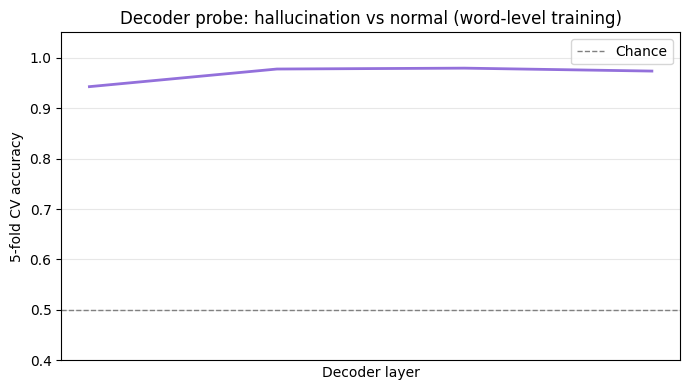
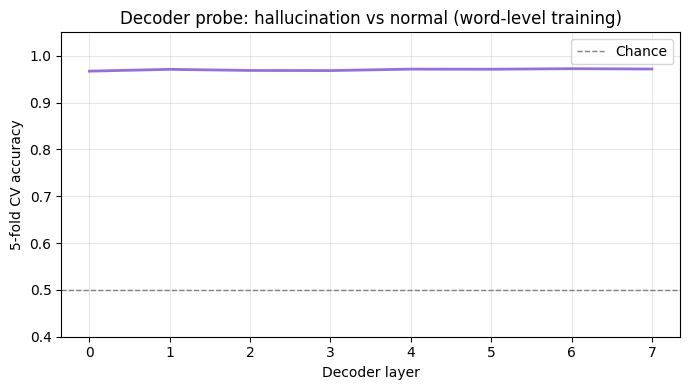
Update Hearing Things Part 3 with new decoder probe figures and results

diff --git a/docs/machine-learning/ml/aed-hallucination-decoder.html b/docs/machine-learning/ml/aed-hallucination-decoder.html
@@ -256,8 +256,8 @@ ul.task-list li input[type="checkbox"] {
   <li><a href="#results" id="toc-results" class="nav-link" data-scroll-target="#results">Results</a>
   <ul class="collapse">
   <li><a href="#the-decoder-also-separates" id="toc-the-decoder-also-separates" class="nav-link" data-scroll-target="#the-decoder-also-separates">The decoder also separates</a></li>
-  <li><a href="#held-out-evaluation-99-recall-99-precision" id="toc-held-out-evaluation-99-recall-99-precision" class="nav-link" data-scroll-target="#held-out-evaluation-99-recall-99-precision">Held-out evaluation: 99% recall, 99% precision</a></li>
-  <li><a href="#the-errors-are-labelling-noise" id="toc-the-errors-are-labelling-noise" class="nav-link" data-scroll-target="#the-errors-are-labelling-noise">The errors are labelling noise</a></li>
+  <li><a href="#held-out-evaluation-98-recall-95-precision" id="toc-held-out-evaluation-98-recall-95-precision" class="nav-link" data-scroll-target="#held-out-evaluation-98-recall-95-precision">Held-out evaluation: 98% recall, 95% precision</a></li>
+  <li><a href="#the-errors" id="toc-the-errors" class="nav-link" data-scroll-target="#the-errors">The errors</a></li>
   <li><a href="#where-the-signal-lives-cross-attention-not-generation" id="toc-where-the-signal-lives-cross-attention-not-generation" class="nav-link" data-scroll-target="#where-the-signal-lives-cross-attention-not-generation">Where the signal lives: cross-attention, not generation</a></li>
   <li><a href="#ablation-ruling-out-sequence-length-confounds" id="toc-ablation-ruling-out-sequence-length-confounds" class="nav-link" data-scroll-target="#ablation-ruling-out-sequence-length-confounds">Ablation: ruling out sequence-length confounds</a></li>
   </ul></li>
@@ -310,14 +310,14 @@ ul.task-list li input[type="checkbox"] {
 <section id="the-decoder-also-separates" class="level3">
 <h3 class="anchored" data-anchor-id="the-decoder-also-separates">The decoder also separates</h3>
 <p>One important difference from the encoder probe is the choice of training data. The encoder probe used pure silence segments - acoustically unambiguous non-speech - against dense, fluent speech. The decoder probe here uses a harder, more realistic setting: the non-speech class consists of <strong>sparse speech segments</strong> - real audio containing speech interrupted by long pauses, background noise, and extended non-speech passages. These are exactly the segments most likely to cause hallucinations in production, and they represent the worst case for linear separability. The goal is to establish whether the separation holds even when the acoustic boundary between speech and non-speech is genuinely ambiguous.</p>
-<p>The curve rises monotonically with depth, reaching above 0.97 towards the final layer. Unlike the encoder where separation is essentially complete from the very first layer, the decoder sharpens progressively - the signal is present early but becomes more linearly decodable as cross-attention information is integrated across the full stack.</p>
+<p>The curve is essentially flat at above 0.96 across all decoder layers, peaking at 0.972 at layer 6. Like the encoder, the distinction is present from the very first layer and does not materially change with depth — the signal is immediately accessible and remains so throughout the full decoder stack.</p>
 <div class="quarto-figure quarto-figure-center">
 <figure class="figure">
 <p><img src="../../images/ml/decoder-probe-accuracy.png" class="img-fluid figure-img"></p>
-<figcaption>Probe accuracy across decoder layers, trained on sparse speech vs hallucination. The curve rises with depth, peaking above 0.97.</figcaption>
+<figcaption>Probe accuracy across decoder layers, trained on sparse speech vs hallucination. The curve is flat above 0.96 throughout, peaking at 0.972 at layer 6.</figcaption>
 </figure>
 </div>
-<p>The 1D projection at the best layer shows essentially complete separation, with a gap of 7.6 pooled standard deviations between the two class centres.</p>
+<p>The 1D projection at the best layer shows essentially complete separation, with a gap of 5.46 pooled standard deviations between the two class centres.</p>
 <div class="quarto-figure quarto-figure-center">
 <figure class="figure">
 <p><img src="../../images/ml/decoder-probe-direction-viz.png" class="img-fluid figure-img"></p>
@@ -325,8 +325,8 @@ ul.task-list li input[type="checkbox"] {
 </figure>
 </div>
 </section>
-<section id="held-out-evaluation-99-recall-99-precision" class="level3">
-<h3 class="anchored" data-anchor-id="held-out-evaluation-99-recall-99-precision">Held-out evaluation: 99% recall, 99% precision</h3>
+<section id="held-out-evaluation-98-recall-95-precision" class="level3">
+<h3 class="anchored" data-anchor-id="held-out-evaluation-98-recall-95-precision">Held-out evaluation: 98% recall, 95% precision</h3>
 <p>The fitted probe is evaluated on the held-out test set as a runtime hallucination detector: run the model, collect decoder activations, classify without looking at the transcript output.</p>
 <table class="caption-top table">
 <colgroup>
@@ -346,130 +346,200 @@ ul.task-list li input[type="checkbox"] {
 <tbody>
 <tr class="odd">
 <td style="text-align: left;">Non-speech hallucinations</td>
-<td style="text-align: right;">458 detected</td>
-<td style="text-align: right;">5 missed</td>
-<td style="text-align: right;"><strong>recall 0.99</strong></td>
+<td style="text-align: right;">482 detected</td>
+<td style="text-align: right;">12 missed</td>
+<td style="text-align: right;"><strong>recall 0.98</strong></td>
 </tr>
 <tr class="even">
 <td style="text-align: left;">Speech transcriptions</td>
-<td style="text-align: right;">793 passed</td>
-<td style="text-align: right;">6 false positives</td>
-<td style="text-align: right;"><strong>precision 0.99</strong></td>
+<td style="text-align: right;">871 passed</td>
+<td style="text-align: right;">23 false positives</td>
+<td style="text-align: right;"><strong>precision 0.95</strong></td>
 </tr>
 </tbody>
 </table>
-<p>Of 463 hallucinating segments in the test set, 458 are correctly identified. Of 799 normal speech segments, 793 are correctly cleared. 11 cases in total appear as errors. The correctly detected hallucinations are characteristic of the failure mode: short, affirmative-sounding fragments produced from ambient silence - <em>“Oh,”</em>, <em>“Hold on.”</em>, <em>“Thank you.”</em>, <em>“I’m gonna go with it.”</em>, <em>“Jesus.”</em> - consistent with what was observed in the encoder steering experiments.</p>
+<p>Of 494 hallucinating segments in the test set, 482 are correctly identified. Of 894 normal speech segments, 871 are correctly cleared. 35 cases in total appear as errors. The correctly detected hallucinations are characteristic of the failure mode: short, affirmative-sounding fragments produced from ambient silence - <em>“Oh,”</em>, <em>“Hold on.”</em>, <em>“Thank you.”</em>, <em>“I’m gonna go with it.”</em>, <em>“Jesus.”</em> - consistent with what was observed in the encoder steering experiments.</p>
 </section>
-<section id="the-errors-are-labelling-noise" class="level3">
-<h3 class="anchored" data-anchor-id="the-errors-are-labelling-noise">The errors are labelling noise</h3>
-<p>On audio inspection of all 11 apparent errors, every single one is a labelling error in the evaluation dataset - not a probe failure.</p>
-<p>The 5 false negatives - hallucinations the probe missed - are non-speech segments that actually contain speech. While the model transcribes them correctly, the probe correctly classifies them as normal transcription, i.e.&nbsp;the label is wrong.</p>
+<section id="the-errors" class="level3">
+<h3 class="anchored" data-anchor-id="the-errors">The errors</h3>
+<p>The 12 false negatives are non-speech segments that contain audible speech, where the model produces a coherent-sounding transcript and the probe correctly classifies it as normal transcription — the label is inconsistent with the audio content.</p>
 <table class="caption-top table">
-<colgroup>
-<col style="width: 33%">
-<col style="width: 33%">
-<col style="width: 33%">
-</colgroup>
 <thead>
 <tr class="header">
 <th>Type</th>
 <th>Model output</th>
-<th>Why it’s a label error</th>
 </tr>
 </thead>
 <tbody>
 <tr class="odd">
 <td>FN</td>
-<td><em>Hey, Laluquet. Laluquet.</em></td>
-<td>Audible speech in a segment marked as silence</td>
+<td><em>I just…</em></td>
 </tr>
 <tr class="even">
 <td>FN</td>
-<td><em>Michael.</em></td>
-<td>Audible name in a silence segment</td>
+<td><em>Right here.</em></td>
 </tr>
 <tr class="odd">
 <td>FN</td>
-<td><em>it, man.</em></td>
-<td>Audible speech fragment in a silence segment</td>
+<td><em>about it.</em></td>
 </tr>
 <tr class="even">
 <td>FN</td>
-<td><em>like my family.</em></td>
-<td>Audible speech in a silence segment</td>
+<td><em>I don’t know why I always just.</em></td>
 </tr>
 <tr class="odd">
 <td>FN</td>
-<td><em>Сколько вообще инвестиций…</em></td>
-<td>Audible Russian speech - correctly transcribed, mislabelled as non-speech</td>
-</tr>
-</tbody>
-</table>
-<p>Five of the 6 false positives are mirror-image labelling errors: segments labelled as speach that, on listening, contain no intelligible speech content. Despite the probe classifying these as hallucinations, they are actually correct.</p>
-<table class="caption-top table">
-<colgroup>
-<col style="width: 33%">
-<col style="width: 33%">
-<col style="width: 33%">
-</colgroup>
-<thead>
-<tr class="header">
-<th>Type</th>
-<th>Model output</th>
-<th>Why it’s a label error</th>
-</tr>
-</thead>
-<tbody>
-<tr class="odd">
-<td>FP</td>
-<td><em>Okay.</em></td>
-<td>Segment contains no intelligible speech; output is a hallucination</td>
+<td><em>Well, and, um…</em></td>
 </tr>
 <tr class="even">
-<td>FP</td>
-<td><em>Um,</em></td>
-<td>Borderline segment; no clear speech content</td>
+<td>FN</td>
+<td><em>Any</em></td>
 </tr>
 <tr class="odd">
-<td>FP</td>
-<td><em>Session.</em></td>
-<td>Segment contains no intelligible speech</td>
+<td>FN</td>
+<td><em>And Janet, what the…</em></td>
 </tr>
 <tr class="even">
-<td>FP</td>
+<td>FN</td>
+<td><em>We are taking.</em></td>
+</tr>
+<tr class="odd">
+<td>FN</td>
+<td><em>That’s what you get.</em></td>
+</tr>
+<tr class="even">
+<td>FN</td>
 <td><em>Oh.</em></td>
-<td>Segment contains no intelligible speech</td>
 </tr>
 <tr class="odd">
-<td>FP</td>
-<td><em>And,</em></td>
-<td>Very short segment (~1.2s); no intelligible speech content</td>
+<td>FN</td>
+<td><em>Uh,</em></td>
+</tr>
+<tr class="even">
+<td>FN</td>
+<td><em>Thank you.</em></td>
 </tr>
 </tbody>
 </table>
-<p>The sixth is a genuine probe error. The segment contains difficult-to-follow speech, the model produces a transcript that does not match what is being said, and the probe flags it as a hallucination - which it is not. This is a real failure: the probe misclassifies a poor-quality transcription as a hallucination.</p>
+<p>The 23 false positives fall into two groups. The first consists of short, hallucination-typical phrases on segments where the audio may contain no intelligible speech — in which case the probe’s classification is arguably correct and the label is wrong:</p>
 <table class="caption-top table">
-<colgroup>
-<col style="width: 33%">
-<col style="width: 33%">
-<col style="width: 33%">
-</colgroup>
 <thead>
 <tr class="header">
-<th>Type</th>
 <th>Model output</th>
-<th>Assessment</th>
+<th>Hallu token fraction</th>
 </tr>
 </thead>
 <tbody>
 <tr class="odd">
-<td>FP</td>
-<td><em>I got him here.</em></td>
-<td>Genuine probe error - speech present, transcript incorrect but not a hallucination</td>
+<td><em>Thank you.</em></td>
+<td>0.75</td>
+</tr>
+<tr class="even">
+<td><em>Thank you.</em></td>
+<td>0.75</td>
+</tr>
+<tr class="odd">
+<td><em>Yeah.</em></td>
+<td>0.67</td>
+</tr>
+<tr class="even">
+<td><em>Come on</em></td>
+<td>0.67</td>
+</tr>
+<tr class="odd">
+<td><em>So</em></td>
+<td>0.50</td>
 </tr>
 </tbody>
 </table>
-<p>10 of the 11 apparent errors are labelling noise in the evaluation dataset. One is a genuine probe failure.</p>
+<p>The second group are genuine probe errors, where real speech is present but in a form the probe has not encountered during training — synthetic or effects-processed game voices, song lyrics in background music, speech with heavy ambient noise or reverberation:</p>
+<table class="caption-top table">
+<colgroup>
+<col style="width: 50%">
+<col style="width: 50%">
+</colgroup>
+<thead>
+<tr class="header">
+<th>Model output</th>
+<th>Hallu token fraction</th>
+</tr>
+</thead>
+<tbody>
+<tr class="odd">
+<td><em>Dance dance to the baby</em></td>
+<td>1.00</td>
+</tr>
+<tr class="even">
+<td><em>I’m not gonna do it!</em></td>
+<td>1.00</td>
+</tr>
+<tr class="odd">
+<td><em>Jump!</em></td>
+<td>1.00</td>
+</tr>
+<tr class="even">
+<td><em>Get him up!</em></td>
+<td>1.00</td>
+</tr>
+<tr class="odd">
+<td><em>WHAT THEY ARE?!</em></td>
+<td>0.92</td>
+</tr>
+<tr class="even">
+<td><em>Your top tower is under attack.</em></td>
+<td>0.89</td>
+</tr>
+<tr class="odd">
+<td><em>Take a picture of that.</em></td>
+<td>0.86</td>
+</tr>
+<tr class="even">
+<td><em>Get on the truck, let’s go! Fucking normies! Eat this!</em></td>
+<td>0.77</td>
+</tr>
+<tr class="odd">
+<td><em>We’ll be right back.</em></td>
+<td>0.75</td>
+</tr>
+<tr class="even">
+<td><em>I hit one of them, 40 white. His dude died on air by the other team.</em></td>
+<td>0.71</td>
+</tr>
+<tr class="odd">
+<td><em>So here he is, you can see the…</em></td>
+<td>0.64</td>
+</tr>
+<tr class="even">
+<td><em>Nope, I have not.</em></td>
+<td>0.62</td>
+</tr>
+<tr class="odd">
+<td><em>And then it’s flying fire.</em></td>
+<td>0.60</td>
+</tr>
+<tr class="even">
+<td><em>Quick hands.</em></td>
+<td>0.60</td>
+</tr>
+<tr class="odd">
+<td><em>I’m gonna go see</em></td>
+<td>0.57</td>
+</tr>
+<tr class="even">
+<td><em>Aw, stop it. If you guys like this video and you guys want to watch me try more fun Halloween hacks, I have a whole playlist.</em></td>
+<td>0.57</td>
+</tr>
+<tr class="odd">
+<td><em>Sometimes you say, you hear it?</em></td>
+<td>0.56</td>
+</tr>
+<tr class="even">
+<td><em>That feels like a tight fit.</em></td>
+<td>0.50</td>
+</tr>
+</tbody>
+</table>
+<p>It is worth noting that the probe was trained on only 3,000 examples per class, with no deliberate coverage of these corner cases. Performance on acoustically unusual speech — processed voices, background vocals, heavily reverberant or noise-overlapped audio — would likely improve with broader training data that includes such examples. The hallucination token fractions are higher for the energetic, exclamatory utterances at the top, which are acoustically the closest to hallucination-typical output. One observation from the token-level breakdown that is worth noting: in the first-group cases — short, stock phrases on borderline audio — both the prefix and a majority of the individual tokens tend to be classified as hallucinations. A classifier that requires the prefix to be hallucinated <em>and</em> a threshold fraction of the content tokens to be hallucinated would likely reduce false positives on legitimate speech while retaining sensitivity to genuine hallucinations. This was not pursued here, as the goal was to understand the mechanism rather than to optimise a detection method.</p>
 </section>
 <section id="where-the-signal-lives-cross-attention-not-generation" class="level3">
 <h3 class="anchored" data-anchor-id="where-the-signal-lives-cross-attention-not-generation">Where the signal lives: cross-attention, not generation</h3>
@@ -543,7 +613,7 @@ ul.task-list li input[type="checkbox"] {
 </section>
 <section id="interpretation" class="level2">
 <h2 class="anchored" data-anchor-id="interpretation">Interpretation</h2>
-<p>The decoder builds its own independent representation distinguishing hallucination from normal transcription, to essentially the same accuracy as the encoder probe. The model does not merely process non-speech audio differently in the encoder - it also generates tokens differently when hallucinating. Its internal state during hallucination generation is linearly distinguishable from its state during real transcription, consistently, across all four decoder layers, with no learning beyond a logistic regression.</p>
+<p>The decoder builds its own independent representation distinguishing hallucination from normal transcription, to essentially the same accuracy as the encoder probe. The model does not merely process non-speech audio differently in the encoder - it also generates tokens differently when hallucinating. Its internal state during hallucination generation is linearly distinguishable from its state during real transcription, consistently, across all eight decoder layers, with no learning beyond a logistic regression.</p>
 <p>This means the model has <strong>redundant, multilayerd knowledge that it is hallucinating</strong>. We show that the encoder has it from layer 0 and that the decoder builds it from generation step 1, but neither representation surfaces in the output.</p>
 <p>The suppression achieved by encoder-level steering works not because it introduces new information into the system, but because it amplifies a signal the model already possesses. The decoder probe shows the complementary side of this: the decoder would, if it had a way to act on its own internal state, be capable of flagging its output as hallucinated.</p>
 <p>The information required to suppress hallucinations is present in the model twice over - once at the input stage, once at the output stage. What is absent is not a training signal - non-speech and sparse-speech data were included in training, and the model does produce silence in the typical case. What is absent is a training objective that explicitly rewards the model for routing through the latent representation the probe identifies. The coupling between its internal knowledge that it is hallucinating and the decision to output EOS is loose enough to fail at the margin.</p>
